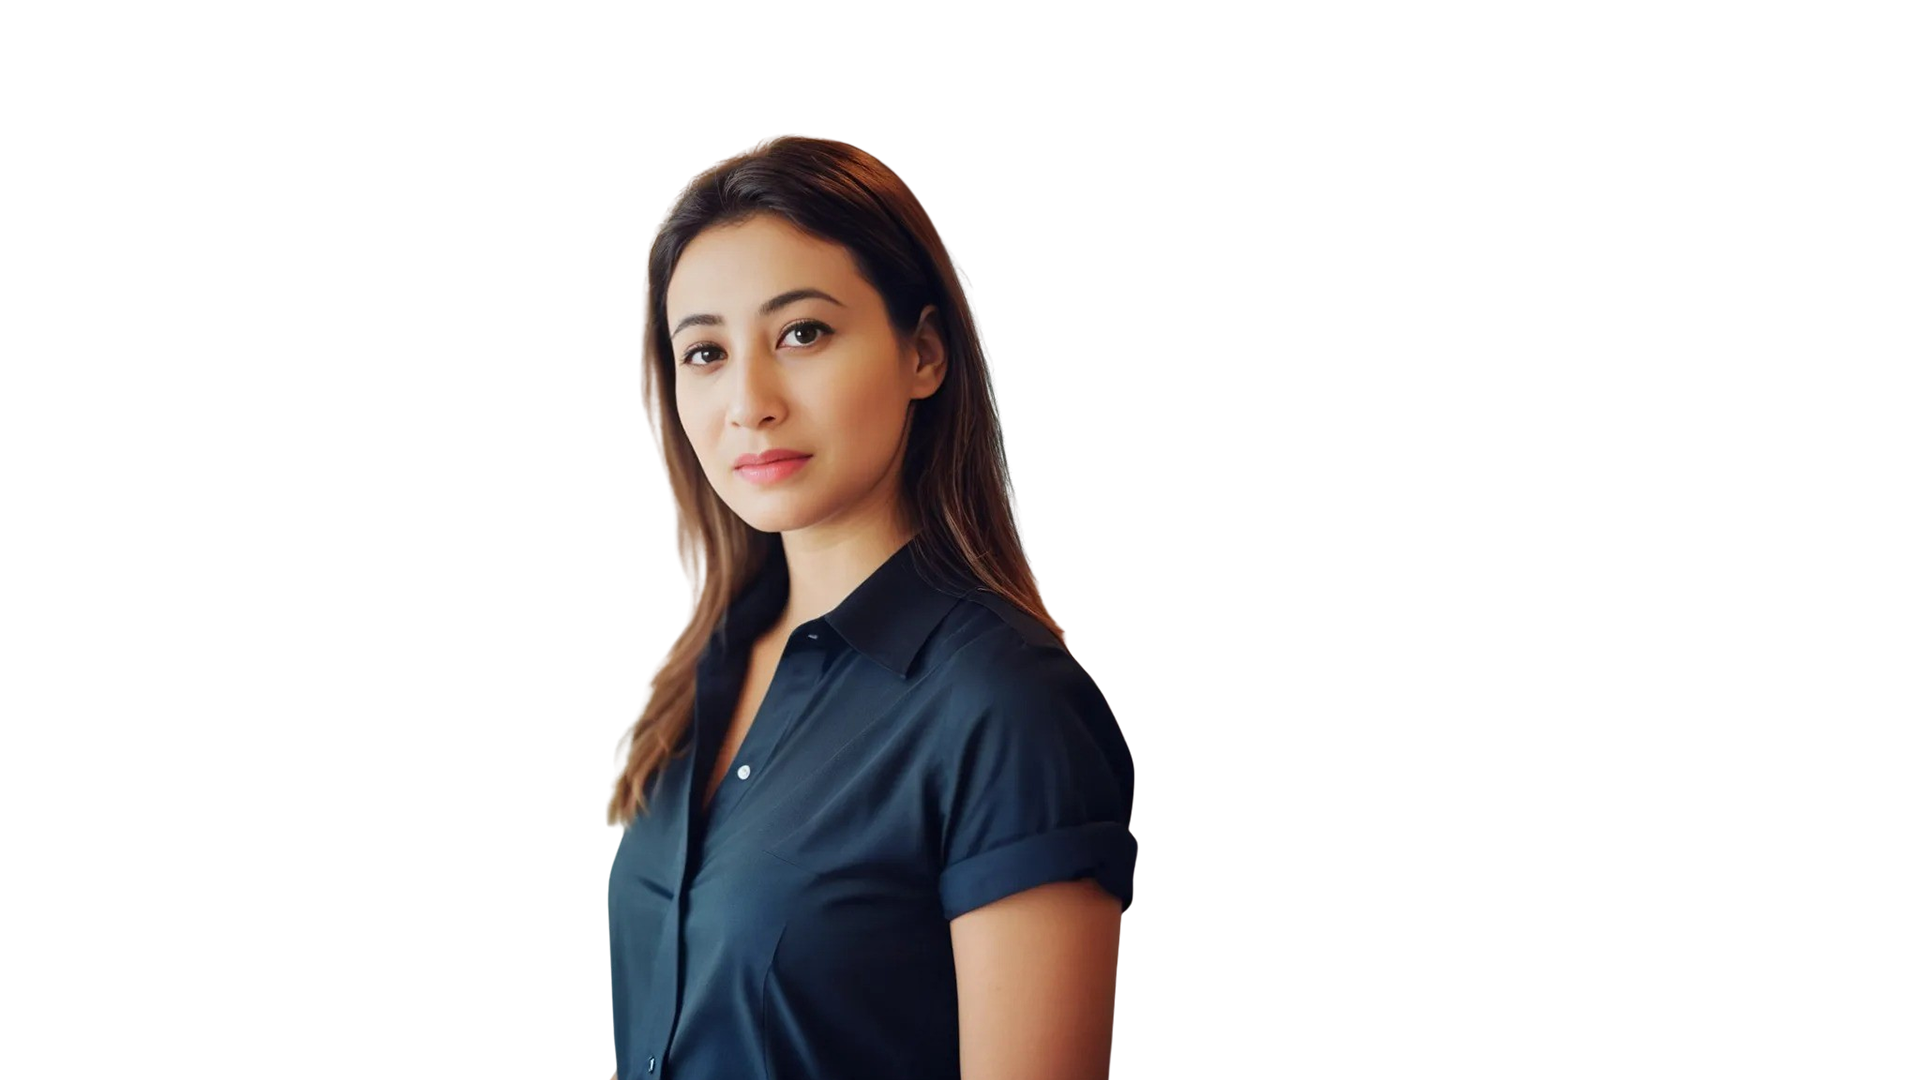
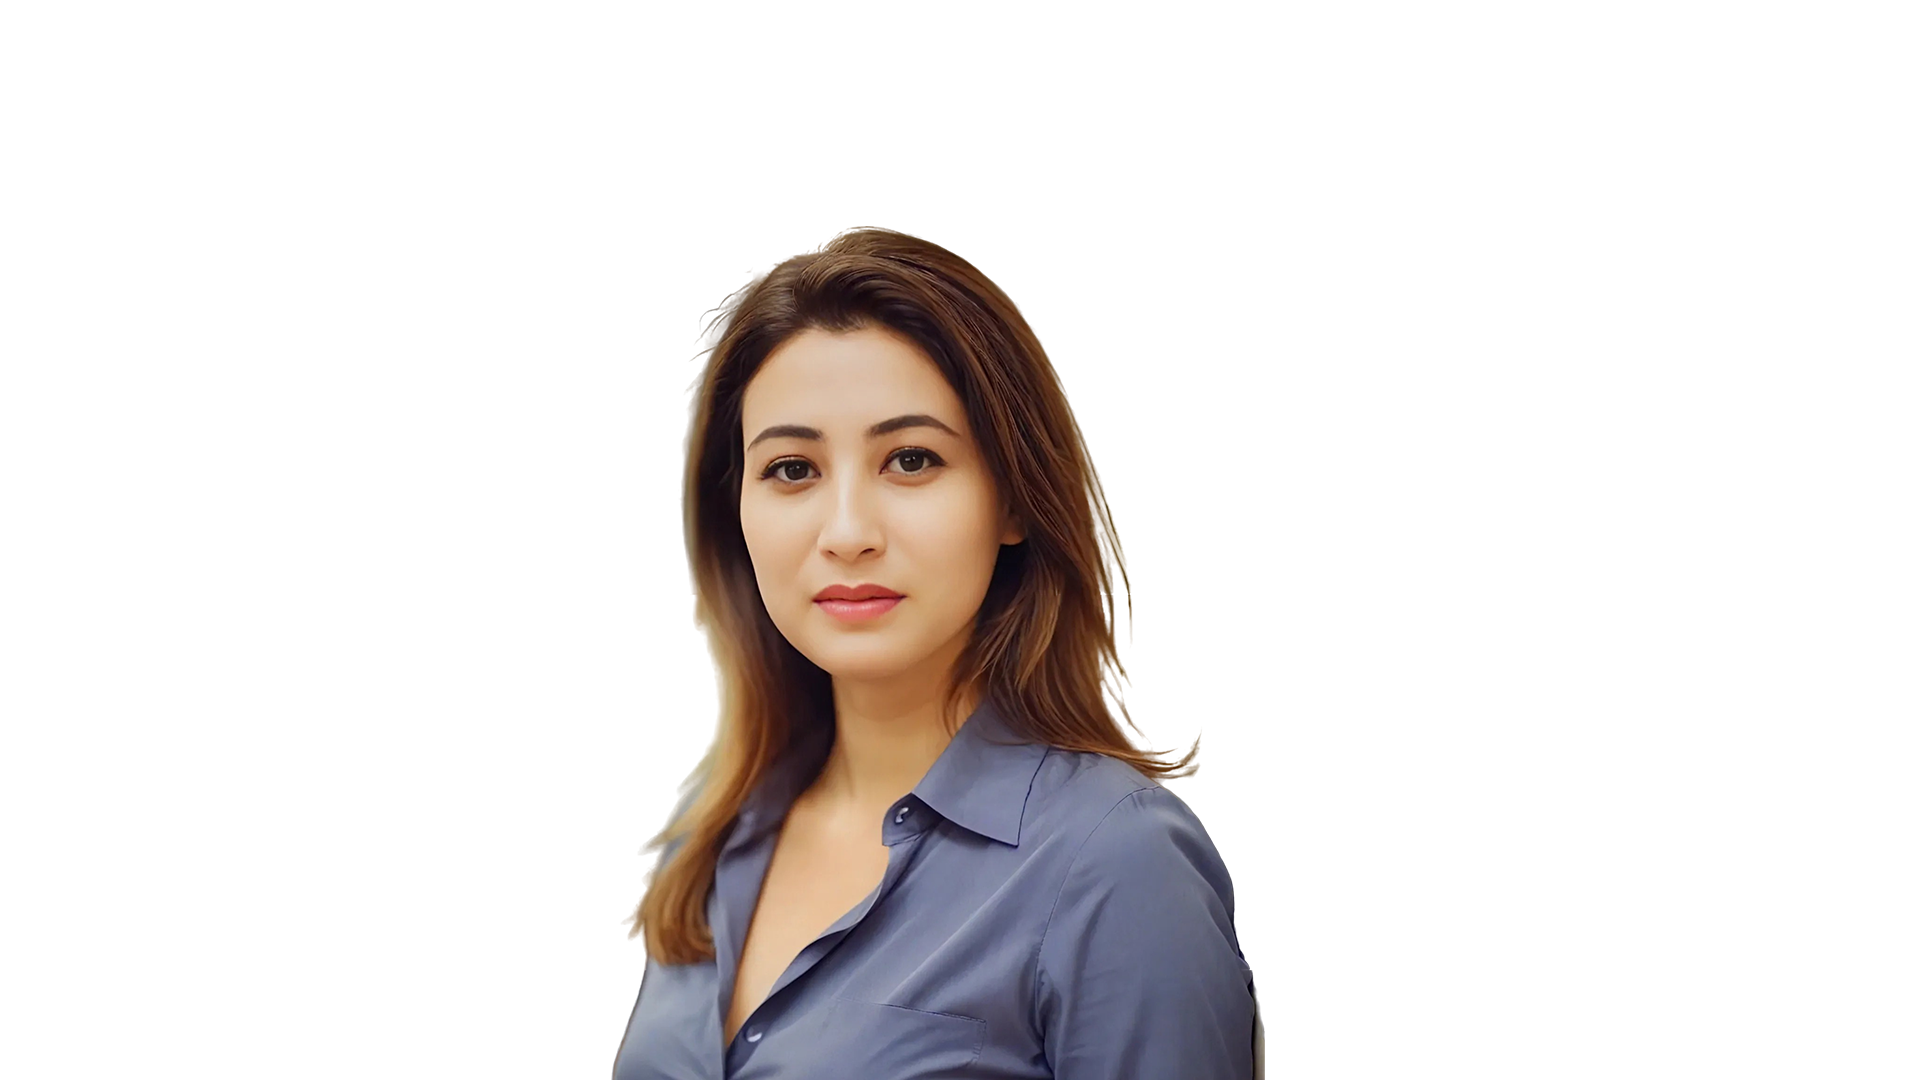
Homepage changes

Changed region(s): [[0.3125, 0.1222, 0.6562, 1.0]]

diff --git a/index.html b/index.html
@@ -77,28 +77,43 @@
             </div><!--end container-->
 		</nav><!--end navbar-->
         <!-- Navbar End -->
+<!-- Start Hero -->
+<section class="full-home personal-hero d-flex align-items-center background-effect overflow-hidden" id="home">
+    <div class="container-fluid">
+        <div class="bg-overlay bg-overlay-primary jarallax" data-jarallax data-speed="0.5" style="background: url('images/home/02.png') top;"></div>
 
-        <!-- HOME START-->
-        <section class="bg-home bg-light d-table w-100" style="background-image:url('images/home/01.png')" id="home">
-            <div class="container">
-                <div class="row align-items-center">
-                    <div class="col-lg-12">
-                        <div class="title-heading mt-5">
-                            <h6 class="sub-title">Looking for a linkedin growth strategist !</h6>
-                            <h1 class="heading text-primary mb-3">I'm Bhanneita Mahanta</h1>
-                            <p class="para-desc text-muted">I’m not just an entrepreneur; I’m a storyteller at heart. My mission is to empower busy professionals—founders, CEOs, COOs, and coaches—to craft their unique narratives and shine on platforms like LinkedIn.</p>
-                            <div class="mt-4 pt-2">
-                                <a href="#contact" class="btn btn-primary rounded mb-2 me-2">Let's Connect</a>
-                            </div>
-                        </div>
-                    </div><!--end col-->
-                </div><!--end row-->
-            </div><!--end container--> 
-            <a href="#about" data-scroll-nav="1" class="mouse-icon rounded-pill bg-transparent mouse-down">
-                <span class="wheel position-relative d-block mover"></span>
-            </a>
-        </section><!--end section-->
-        <!-- HOME END-->
+        <div class="container position-relative" style="z-index: 1;">
+            <div class="row mt-5">
+                <div class="col">
+                    <div class="title-heading">
+                        <div class="row">
+                            <div class="col-lg-4 col-md-6">
+                                <h4 class="display-3 title fw-bold mb-0">Bhanneita <br> <span class="typewrite" data-period="2000" data-type='[ "Mahanta!"]'></span> </h4>                            
+                                
+                            </div><!--end col-->
+    
+                            <div class="col-lg-5 offset-lg-3 col-md-6 mt-4 mt-sm-0">
+                            
+                                <div class="rounded personal-hero-para">
+                                    <h5 class="mb-3 sub-title">Looking for a linkedin growth strategist!</h5>
+                        
+                                    <p class="para-desc para mb-0">I’m not just an entrepreneur; I’m a storyteller at heart. My mission is to empower busy professionals — founders, CEOs, COOs, and coaches — to craft their unique narratives and shine on platforms like LinkedIn.</p>
+                                
+                                    <div class="mt-4">
+                                        <a href="#contact" class="btn btn-primary rounded mb-2 me-2">Let's Connect</a>
+                                    </div>
+                                </div>
+                            </div><!--end col-->
+                        </div><!--end row-->
+                    </div>
+                </div><!--end col-->
+            </div><!--end row-->
+        </div><!--end container-->
+    </div><!--end container fluid-->
+    <div class="personal-overlay bg-overlay bg-primary-gradient-overlay"></div>
+</section><!--end section-->
+<!-- End Hero -->
+
         
         <!-- About Start -->
         <section class="section pb-3" id="about">
@@ -886,25 +901,24 @@
                 <div class="row justify-content-center">
                     <div class="col-lg-12">
                         <div class="custom-form mb-sm-30">
-                            <form method="post" name="myForm" onsubmit="return validateForm()">
-                                <p id="error-msg"></p>
-                                <div id="simple-msg"></div>
+                            <form method="POST" name="myForm" id="form">
+                                <input type="hidden" name="access_key" value="e6d85706-ef15-4643-8989-0699fc99bd04">
                                 <div class="row">
                                     <div class="col-lg-6">
                                         <div class="row">
                                             <div class="col-lg-12 col-md-6">
                                                 <div class="form-group">
-                                                    <input name="name" id="name" type="text" class="form-control border rounded" placeholder="First Name :">
+                                                    <input name="name" id="name" required type="text" class="form-control border rounded" placeholder="Your Name :">
                                                 </div>
                                             </div><!--end col-->
                                             <div class="col-lg-12 col-md-6">
                                                 <div class="form-group">
-                                                    <input name="email" id="email" type="email" class="form-control border rounded" placeholder="Your email :">
+                                                    <input name="email" id="email" required type="email" class="form-control border rounded" placeholder="Your email :">
                                                 </div> 
                                             </div><!--end col-->
                                             <div class="col-lg-12">
                                                 <div class="form-group">
-                                                    <input name="subject" id="subject" class="form-control border rounded" placeholder="Your subject :">
+                                                    <input name="phone" id="phone" required class="form-control border rounded" placeholder="Your contact number :">
                                                 </div>                                                                               
                                             </div><!--end col-->
                                         </div><!--end row-->
@@ -912,15 +926,18 @@
 
                                     <div class="col-lg-6">
                                         <div class="form-group">
-                                            <textarea name="comments" id="comments" rows="4" class="form-control border rounded" placeholder="Your Message :"></textarea>
+                                            <textarea name="comments" id="comments" required rows="4" class="form-control border rounded" placeholder="Your Message :"></textarea>
                                         </div>
                                     </div><!--end col-->
 
                                     <div class="col-sm-12 text-end">
                                         <button type="submit" id="submit" name="send" class="btn btn-primary">Send Message</button>
                                     </div>
-                                </div>
+                                </div>                         
+                                 <input type="checkbox" name="botcheck" class="hidden" style="display: none;">                              
+                                <div id="result" style="display: none;" class="alert alert-success"></div>                        
                             </form>
+
                         </div><!--end custom-form-->
                     </div><!--end col-->
                 </div><!--end row-->
@@ -962,6 +979,7 @@
         <!-- javascript -->
         <script src="js/bootstrap.bundle.min.js"></script>
         <script src="js/gumshoe.js"></script>
+        <script src="js/parallax.js"></script>
         <!-- SLIDER -->
         <script src="js/tiny-slider.js "></script>
         <!-- Lightbox -->
@@ -969,8 +987,50 @@
         <script src="js/shuffle.min.js"></script>
         <!-- Feather icon -->
         <script src="js/feather.min.js"></script>
+        <script src="js/typed.js"></script>
         <!-- Main Js -->
         <script src="js/plugins.init.js"></script>
         <script src="js/app.js"></script>
+        <script>
+            const form = document.getElementById('form');
+            const result = document.getElementById('result');
+            
+            form.addEventListener('submit', function(e) {
+              e.preventDefault();
+              const formData = new FormData(form);
+              const object = Object.fromEntries(formData);
+              const json = JSON.stringify(object);
+              result.innerHTML = "Please wait..."
+            
+                fetch('https://api.web3forms.com/submit', {
+                        method: 'POST',
+                        headers: {
+                            'Content-Type': 'application/json',
+                            'Accept': 'application/json'
+                        },
+                        body: json
+                    })
+                    .then(async (response) => {
+                        let json = await response.json();
+                        result.style.display = "";
+                        if (response.status == 200) {
+                            result.innerHTML = "Thanks for reaching out! We're on it! 🚀 You’ll hear from us soon";
+                        } else {
+                            console.log(response);
+                            result.innerHTML = json.message;
+                        }
+                    })
+                    .catch(error => {
+                        console.log(error);
+                        result.innerHTML = "Something went wrong!";
+                    })
+                    .then(function() {
+                        form.reset();
+                        setTimeout(() => {
+                            result.style.display = "none";
+                        }, 3000);
+                    });
+            });
+            </script>
     </body>
 </html>
